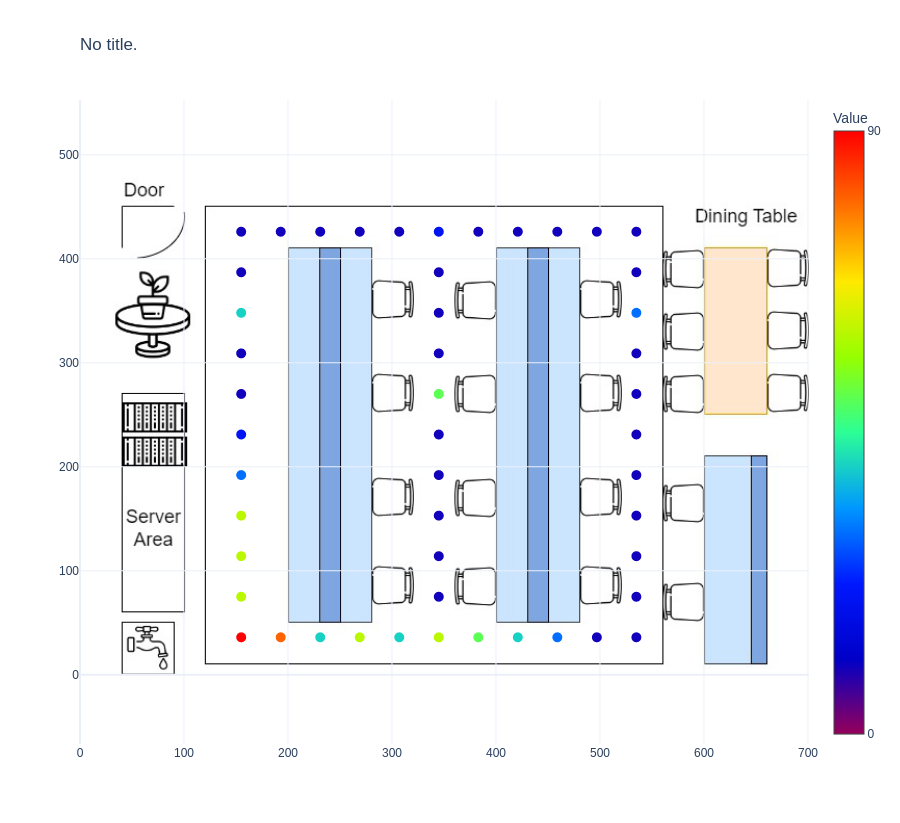
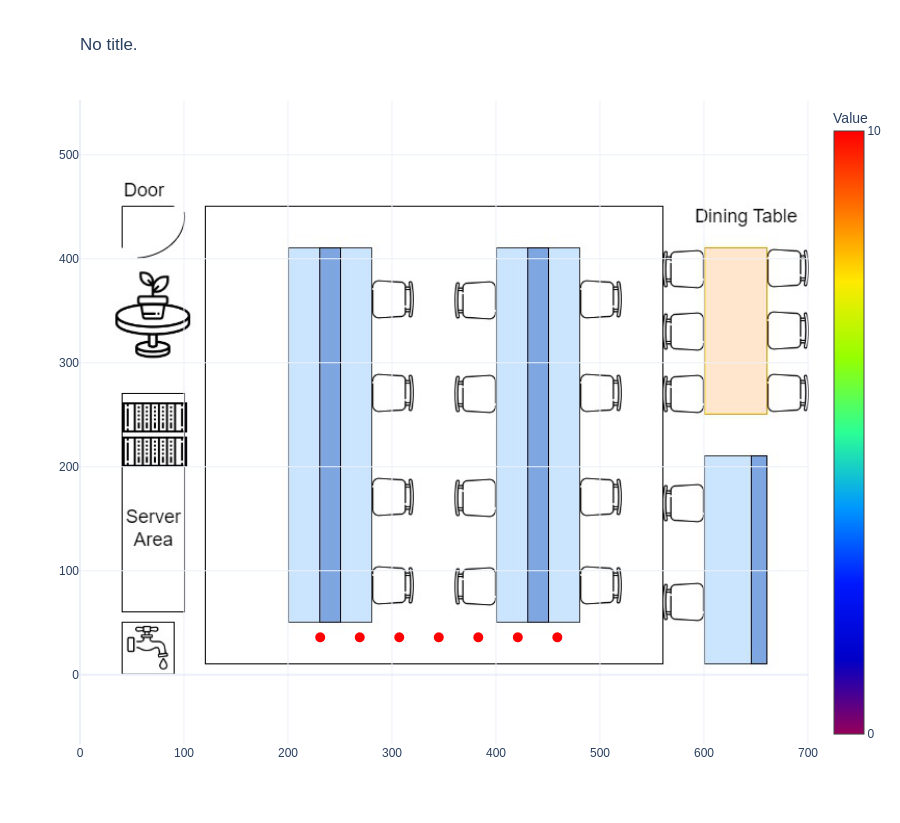
整合好rssi參數更新和heatmap

diff --git a/public/map2.html b/public/map2.html
@@ -159,7 +159,7 @@
 
 
 
-        ///////////////New
+        ///////////////New 選simulation or realtime
         $("#chose_data_input").hover(function () {
             $("#choose_data").css("opacity", "1");
         }, function () {
@@ -227,6 +227,12 @@
                 //
             });
             $('#way').text('RSSI+Image');
+        });
+        $('#type4').click(function () {
+            $.get("/change_type", { type: "Heatmap", value: 3 }, function (response) {
+                //
+            });
+            $('#way').text('Heatmap');
         });
         $("#particle_weight").hover(function () {
             $("#choose_particle_weight").css("opacity", "1");
@@ -327,6 +333,7 @@
                             <li><a href='#' id="type1" class="header_select_sublist_option">純RSSI</a></li>
                             <li><a href='#' id="type2" class="header_select_sublist_option">純Image</a></li>
                             <li><a href='#' id="type3" class="header_select_sublist_option">Both</a></li>
+                            <li><a href='#' id="type4" class="header_select_sublist_option">Heatmap</a></li>
                         </ul>
                     </div>
 

diff --git a/app.js b/app.js
@@ -18,9 +18,9 @@ let pythonProcess = null;
 
 
 const fs = require('fs');
-const lockfile = require('lockfile'); //Synchronize control.py 和 app.js rssi_buffer.csv用
+//const lockfile = require('lockfile'); //Synchronize control.py 和 app.js rssi_buffer.csv用
 const filePath = 'rssi_buffer.csv';
-const lockFilePath = 'l.lock';
+//const lockFilePath = 'l.lock';
 
 function writeToCsvFile(Beacon_RSSi) {
   // // Check if the lock file already exists
@@ -168,7 +168,7 @@ const { spawn } = require('child_process');
 
 function startPythonProcess() { //執行control.py
   processactivate = 1;
-  console.log('app.js start control.py');
+  //console.log('app.js start control.py');
   const pythonArgs = [type, realtime, Beacon_RSSi, particle_prev_count]; //抓argument的時候從1開始
   const pythonFile = '/home/mcs/troy2/control.py';
   if (pythonProcess) { //換type的時候要砍掉process重新執行

diff --git a/ANN_contrast.py b/ANN_contrast.py
@@ -25,6 +25,8 @@ import Wireless_Particle_Filter as PF
 
 import csv
 import json
+
+
 position_label=['101','102','103','104','105','106','107','108','109','110','111',  '201','211','301','311','401','411','501','511', '601','602','603','604','605','606','607','608','609','610','611', '701','711','801','811','901','911','1001','1011',  '1101','1102','1103','1104','1105','1106','1107','1108','1109','1110','1111']
 # Wireless_Test = {'Beacon_1': 0.459016393, 'Beacon_2':0.557377049, 'Beacon_3': 0.344262295,
 #              'Beacon_4':0.37704918, 'Beacon_5': 0.540983607,  'Beacon_7': 0.655737705, }
@@ -65,29 +67,40 @@ if(int(arguments[1])==1): #選用realtime.......................................
     # Wireless_Test = {'Beacon_1': 0.459016393, 'Beacon_2':0.557377049, 'Beacon_3': 0.344262295,
     #              'Beacon_4':0.37704918, 'Beacon_5': 0.540983607,  'Beacon_7': 0.655737705, }
     beacon_rssi=str(arguments[2])
-    Wireless_Test=beacon_rssi.replace("q","\"")
+    #print(str(arguments[4]))
+    Wireless_Test=beacon_rssi.replace("q","")
+    #print("troy2_ANN_contrast.py"+Wireless_Test)
+    sys.stdout.flush()
     Wireless_Test=json.loads(Wireless_Test)
-
+    
     Wireless_RssiData = np.array([])
     for beacon_id, RSSI in Wireless_Test.items():
         RSSI=float(RSSI)
         Wireless_RssiData=np.append(Wireless_RssiData,RSSI)
+
+    #print("troy2_ANN_contrast.py "+str(int(Wireless_RssiData[6])))
 
     new_model = tf.keras.models.load_model('X_model_0409.h5')
     y_pred=new_model.predict([[Wireless_RssiData[0],Wireless_RssiData[1],Wireless_RssiData[2],Wireless_RssiData[3],Wireless_RssiData[4],Wireless_RssiData[5]],],verbose = 0)
     dict={}
     for i in range (len(y_pred[0])):
         dict[position_label[i]]=int(y_pred[0][i]*100)
-    count=int(arguments[4])
-    final_position=PF.calculate(dict,count)
-    print(final_position)
+    count=int(arguments[3])
+    final_position=PF.calculate(dict,30000)
+    print("ANN_contrast.py "+final_position +" Ground Truth: "+ str(int(Wireless_RssiData[6]) ))
+    #print("ANN_contrast.py "+str(arguments[4]))
+    #print(final_position)
+    
 
 
- ###---------------------------------------------寫到position_history裡的csv檔做heat map----------------------------------
-#if(True):  
-if(final_position != int(Wireless_RssiData[6])): #如果prediction 不等於 ground truth的時候
-    config = load_config()
-    # data = (101, 102, -70, -75, -80, -85, -90, -95)
-    data = (int(Wireless_RssiData[6]), final_position, Wireless_RssiData[0], Wireless_RssiData[1], Wireless_RssiData[2], Wireless_RssiData[3], Wireless_RssiData[4], Wireless_RssiData[5])
-    write_row_to_csv(data, config)
-    save_config(config)
+    ###---------------------------------------------寫到position_history裡的csv檔做heat map----------------------------------
+    # if(True):  
+    if(final_position != int(Wireless_RssiData[6]) and int(Wireless_RssiData[6])!=0 ): #如果prediction 不等於 ground truth的時候
+    # if(int(Wireless_RssiData[6]) != 0):
+        #print("drawheatmap")
+        config = load_config()
+        # data = (101, 102, -70, -75, -80, -85, -90, -95)
+        data = (int(Wireless_RssiData[6]), final_position, Wireless_RssiData[0], Wireless_RssiData[1], Wireless_RssiData[2], Wireless_RssiData[3], Wireless_RssiData[4], Wireless_RssiData[5])
+        write_row_to_csv(data, config)
+        save_config(config)
+        

diff --git a/control.py b/control.py
@@ -38,20 +38,21 @@ def read_locked_file():
 arguments = sys.argv  # argument[1]"哪種方法", argument[2]"模擬 or realtime", argument[3]"rssi值", argument[4]"粒子數" , argument[5]"粒子數"
 if(int(arguments[1])==0): # 用RSSI
     #print("control.py"+arguments[3])
-    command = ['python', './ANN.py', arguments[2], arguments[3], arguments[4]]
     rssi_history = arguments[3]
+    command = ['python', './ANN.py', arguments[2], arguments[3], arguments[4]]
     while True:
-        process = subprocess.Popen(command, stdout=subprocess.PIPE, universal_newlines=True, bufsize=1)
-        # rssi = read_locked_file(input_csv_file, lock_file)
         rssi = read_locked_file()
-        if(rssi!=rssi_history):
-            command = ['python', './ANN.py', arguments[2], rssi, arguments[4]]
+        if(rssi_history != rssi and rssi is not None):
+            rssi_history = rssi   
+            #print("activate process " + str(rssi))
+            command = ['python', './ANN.py', arguments[2], rssi, arguments[4]] 
+            process = subprocess.Popen(command, stdout=subprocess.PIPE, universal_newlines=True, bufsize=1)
             output = process.stdout.readline()
-        else:
-            continue
-        if output == '' and process.poll() is not None: break 
-        if output: print(output.strip())
-        sys.stdout.flush()
+            if output == '' and process.poll() is not None: break 
+            if output: print(output.strip())
+            sys.stdout.flush()
+
+        
 
 
 elif(int(arguments[1])==1): # 用影像
@@ -79,15 +80,20 @@ elif(int(arguments[1])==1): # 用影像
 
 
 elif(int(arguments[1])==3): # 用ANN_contrast.py
+    rssi_history = arguments[3]
     command = ['python', './ANN_contrast.py', arguments[2], arguments[3], arguments[4]]
     while True:
-        process = subprocess.Popen(command, stdout=subprocess.PIPE, universal_newlines=True, bufsize=1)
-        rssi = read_locked_file(input_csv_file, lock_file)
-        command = ['python', './ANN_contrast.py', arguments[2], rssi, arguments[4]]
-        output = process.stdout.readline()
-        if output == '' and process.poll() is not None: break 
-        if output: print(output.strip())
-        sys.stdout.flush()
+        rssi = read_locked_file()
+        if(rssi_history != rssi and rssi is not None):
+            rssi_history = rssi   
+            #print("activate process " + str(rssi))
+            command = ['python', './ANN_contrast.py', arguments[2], rssi, arguments[4]] 
+            process = subprocess.Popen(command, stdout=subprocess.PIPE, universal_newlines=True, bufsize=1)
+            output = process.stdout.readline()
+            if output == '' and process.poll() is not None: break 
+            if output: print(output.strip())
+            sys.stdout.flush()
+
 
 
 elif(False): # 用其他方法(待).......................................................................

diff --git a/ANN.py b/ANN.py
@@ -24,11 +24,16 @@ import csv
 import pandas as pd
 import os
 import Wireless_Particle_Filter as PF
+
+
+
 position_label=['101','102','103','104','105','106','107','108','109','110','111',  '201','211','301','311','401','411','501','511', '601','602','603','604','605','606','607','608','609','610','611', '701','711','801','811','901','911','1001','1011',  '1101','1102','1103','1104','1105','1106','1107','1108','1109','1110','1111']
 
 
 arguments = sys.argv       # arguments[0] 好像被保留
+#if (False):
 if (int(arguments[1])==0): #選用模擬.................................................................................
+    print("troy2_ANN.py_simulation")
     new_model = tf.keras.models.load_model('X_model_0409.h5')
     y_pred=np.array([])
     csv_file_path = "/home/mcs/troy2/walk_data/wireless_training_1002.csv"
@@ -50,12 +55,18 @@ if (int(arguments[1])==0): #選用模擬........................................
             print(final_position)
             sys.stdout.flush()
             
+#elif(True): #測試用
 elif(int(arguments[1])==1): #選用realtime...............................................................................
-    # Wireless_Test = {'Beacon_1': 0.459016393, 'Beacon_2':0.557377049, 'Beacon_3': 0.344262295,
-    #              'Beacon_4':0.37704918, 'Beacon_5': 0.540983607,  'Beacon_7': 0.655737705, }
+    #print("troy2_ANN.py_realtime")
+    #Wireless_Test = {'Beacon_1': 0.459016393, 'Beacon_2':0.557377049, 'Beacon_3': 0.344262295,
+    #             'Beacon_4':0.37704918, 'Beacon_5': 0.540983607,  'Beacon_7': 0.655737705, }
     beacon_rssi=str(arguments[2])
-    Wireless_Test=beacon_rssi.replace("q","\"")
+    #print("troy2_ANN.py1"+beacon_rssi)
+    Wireless_Test=beacon_rssi.replace("q","")
+    print("troy2_ANN.py2"+Wireless_Test)
+    sys.stdout.flush()
     Wireless_Test=json.loads(Wireless_Test)
+    
 
     Wireless_RssiData = np.array([])
     for beacon_id, RSSI in Wireless_Test.items():
@@ -67,9 +78,9 @@ elif(int(arguments[1])==1): #選用realtime.....................................
     dict={}
     for i in range (len(y_pred[0])):
         dict[position_label[i]]=int(y_pred[0][i]*100)
-    count=int(arguments[4])
-    final_position=PF.calculate(dict,count)
-    print(final_position)
+    count=int(arguments[3])
+    final_position=PF.calculate(dict,30000) #測試用
+    #print(final_position)
 
 
 #y_pred_class = np.argmax(y_pred, axis=1)

diff --git a/heatmap_test3.py b/heatmap_test3.py
@@ -11,7 +11,7 @@ def save_figure_to_html(fig, filename):
 def visualize_heatmap(value = 12, colorbar_title="colorbar", title=None, show=False):
     fig = go.Figure()
     map_image_path = "public/images/LABmap2.jpg"
-    csv_file_path = "position_history/history_4.csv"
+    csv_file_path = "position_history/history_3.csv"
     floor_plan_filename = Image.open(map_image_path)
     width_meter, height_meter = floor_plan_filename.size
     data = []
@@ -21,7 +21,7 @@ def visualize_heatmap(value = 12, colorbar_title="colorbar", title=None, show=Fa
         csv_reader = csv.reader(csv_file)
         next(csv_reader)  # Skip header row
         for row in csv_reader:
-            groundtruth, estimated, rssi1, rssi2, rssi3, rssi4, rssi5, rssi6 = map(int, row)
+            groundtruth, estimated, rssi1, rssi2, rssi3, rssi4, rssi5, rssi6 = map(float, row)
             data.append((int(groundtruth/100), int(groundtruth%100)))
 
 
